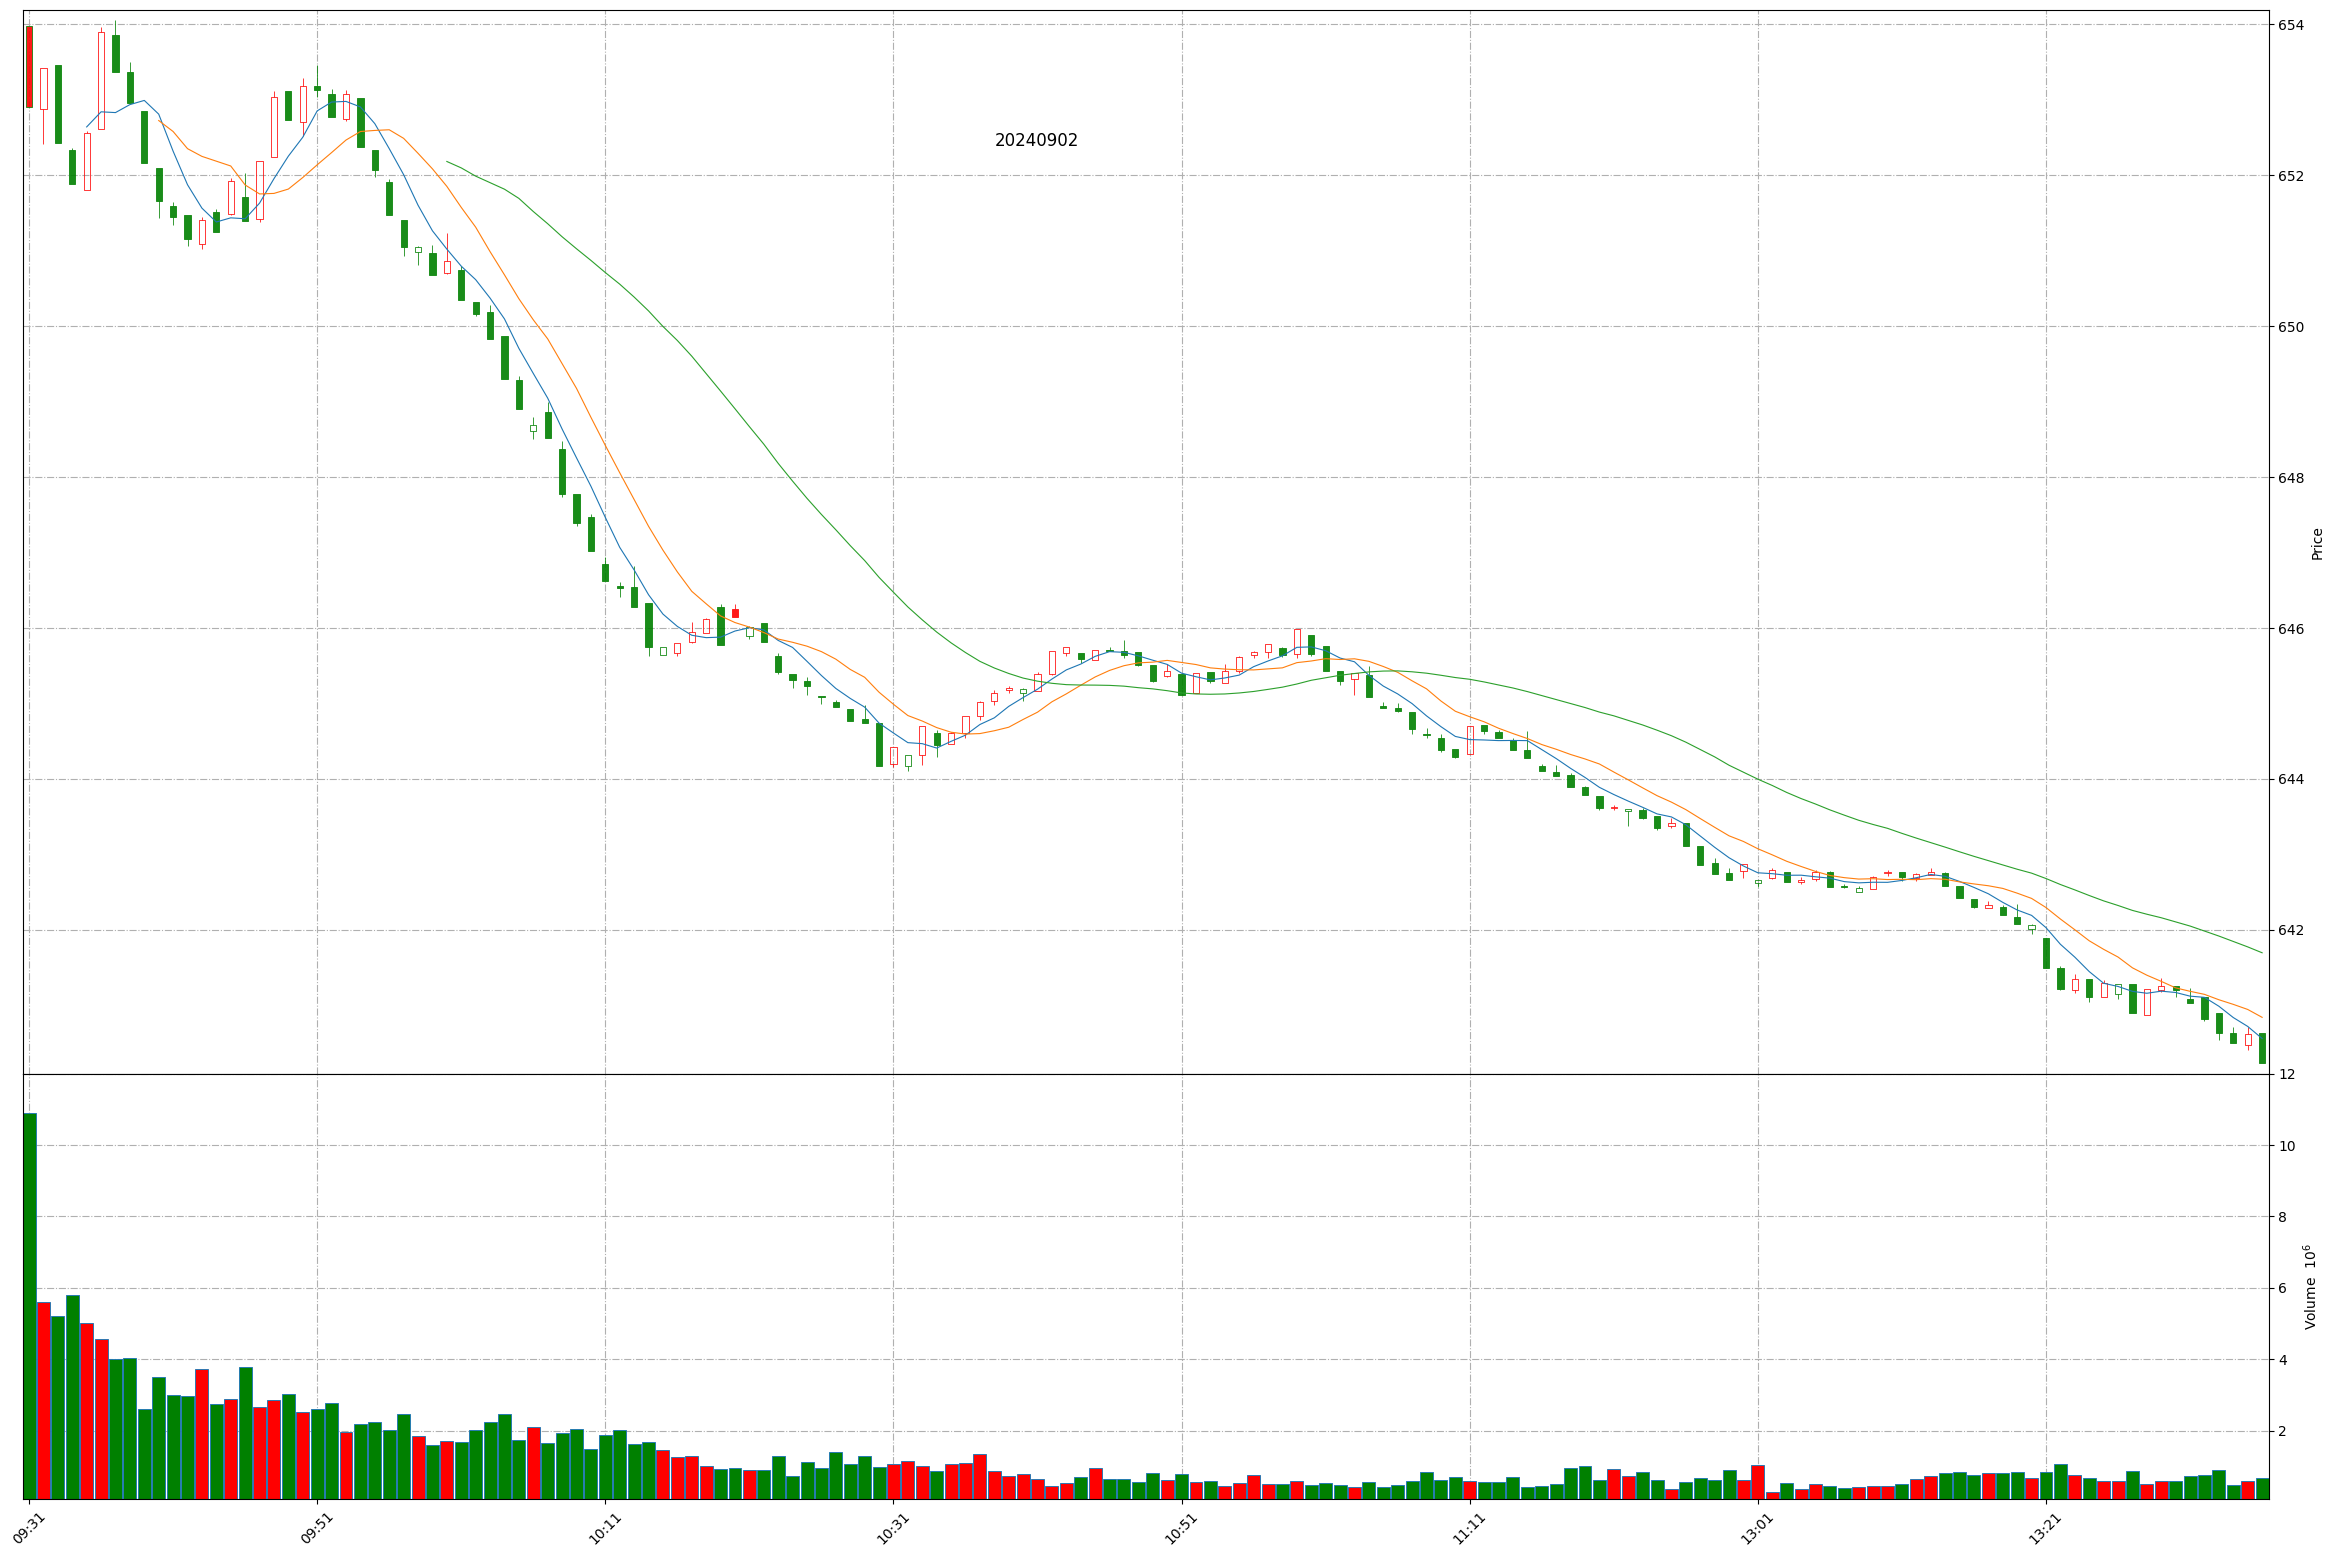
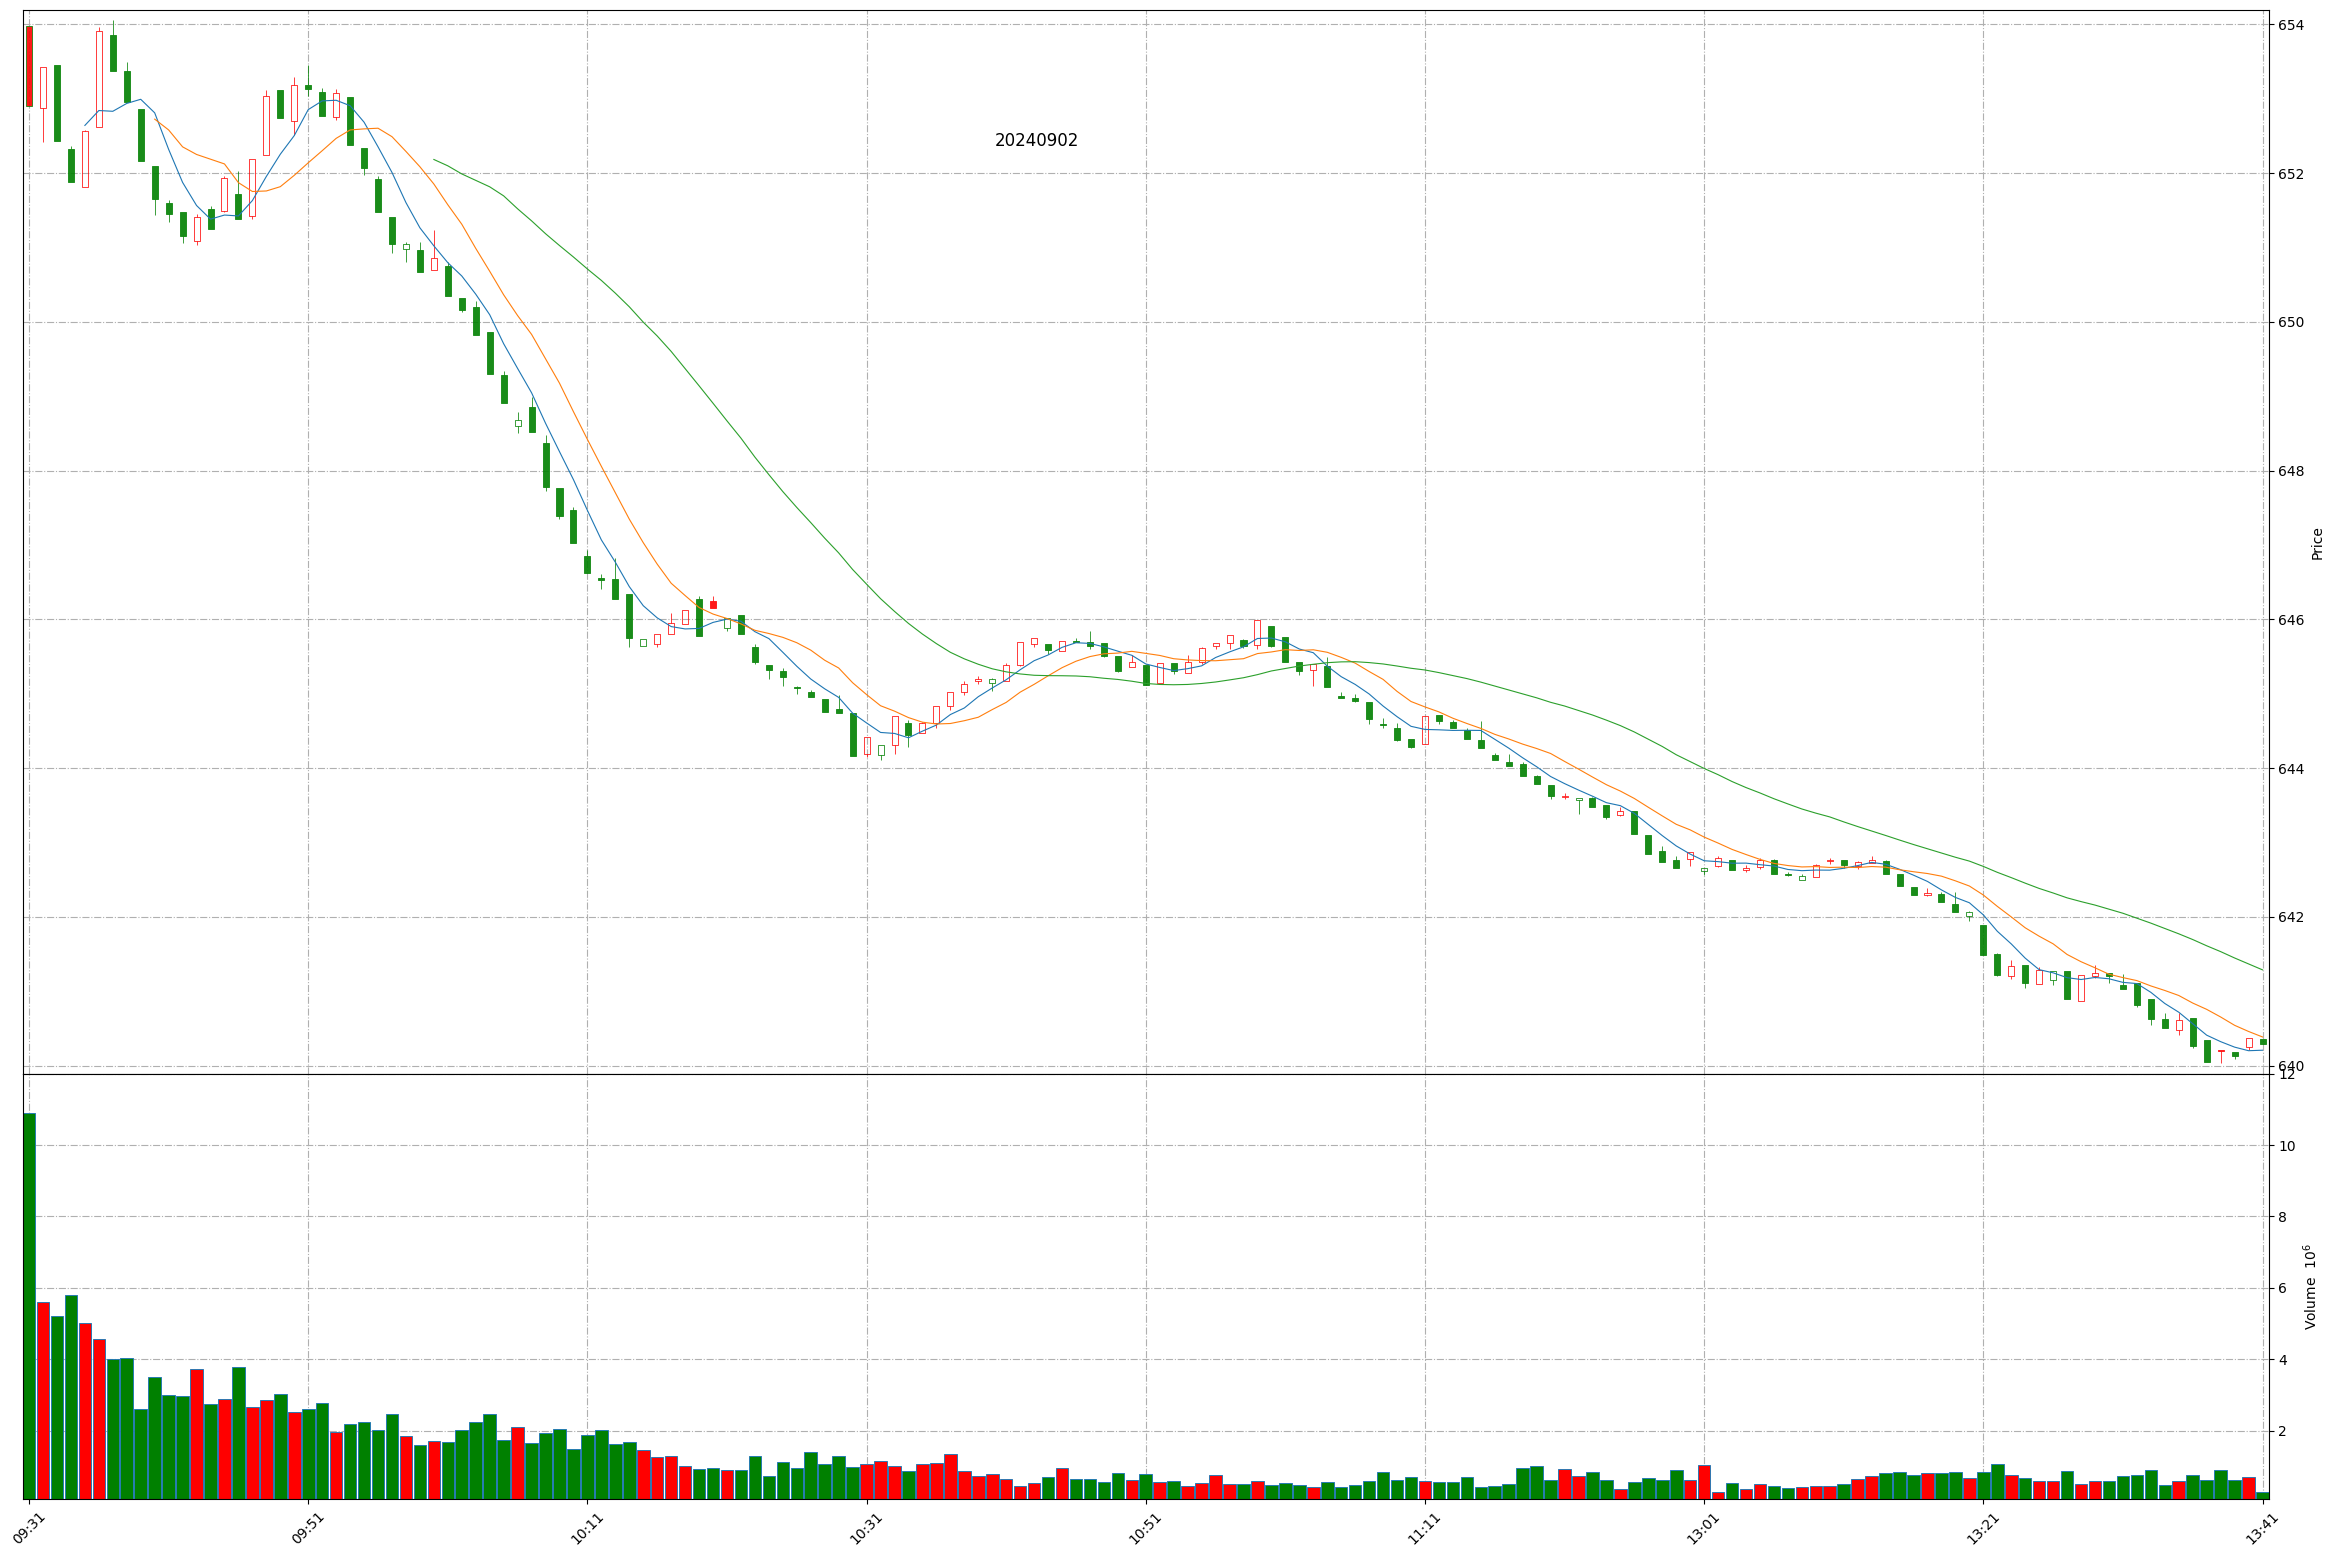
Github action update at 2024-09-02 13:40:32.

diff --git a/README.md b/README.md
@@ -1,11 +1,11 @@
 
 # Daily-A-share-market-quotes 每日 A 股指数（5min 更新）- 20240902
 
-### 上证指数 20240902 13:35
+### 上证指数 20240902 13:40
 ![](./fig/2024/9/20240902-sh000001.png)
 
-### 深证成指 20240902 13:35
+### 深证成指 20240902 13:40
 ![](./fig/2024/9/20240902-sz399001.png)
 
-### 北证50 20240902 13:35
+### 北证50 20240902 13:40
 ![](./fig/2024/9/20240902-bj899050.png)
